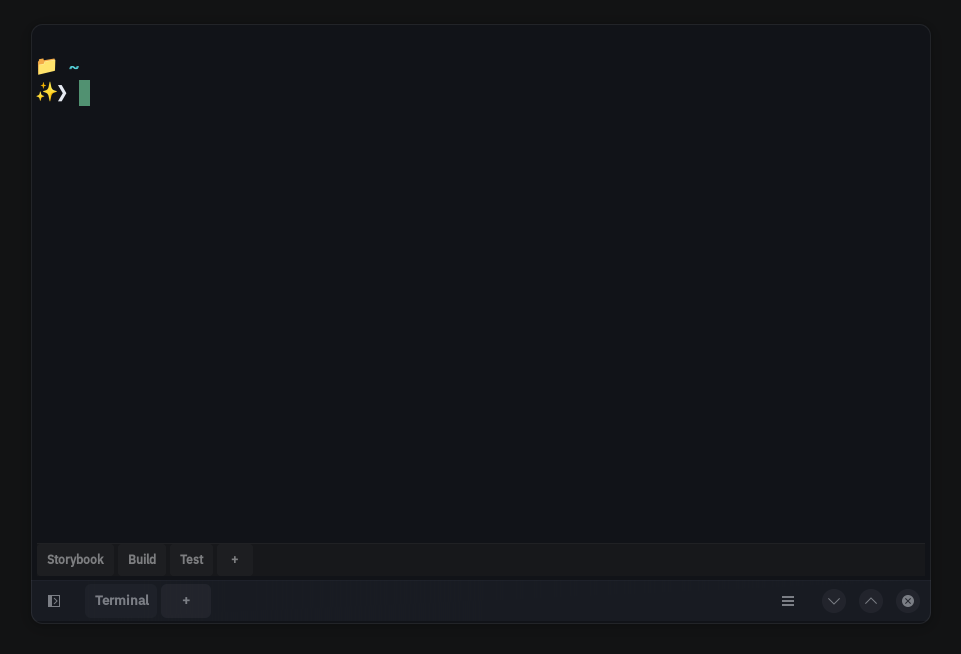
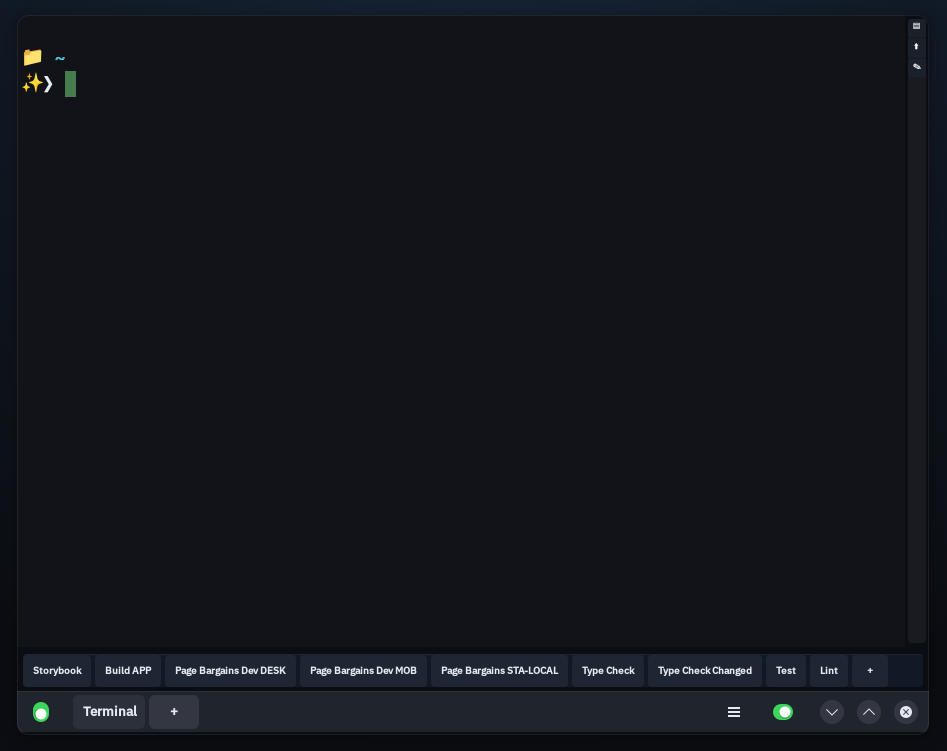
update screenshots from gh-pages, restore 2x2 grid in README

diff --git a/README.md b/README.md
@@ -19,9 +19,12 @@
 ## Screenshots
 
 <p align="center">
-  <img src="assets/screenshot-1.png" alt="ShellBar terminal with toolbar" width="32%">
-  <img src="assets/screenshot-2.png" alt="ShellBar terminal with tabs" width="32%">
-  <img src="assets/screenshot-3.png" alt="ShellBar terminal with config" width="32%">
+  <img src="assets/screenshot-1.png" alt="ShellBar terminal with toolbar" width="48%">
+  <img src="assets/screenshot-2.png" alt="ShellBar terminal with tabs" width="48%">
+</p>
+<p align="center">
+  <img src="assets/screenshot-3.png" alt="ShellBar terminal with config" width="48%">
+  <img src="assets/screenshot-4.png" alt="ShellBar utility bar and TUI tools" width="48%">
 </p>
 
 ## Tech Stack